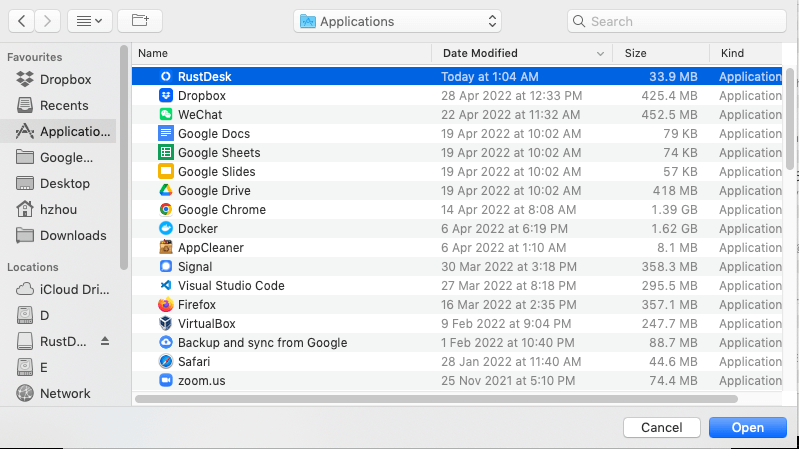
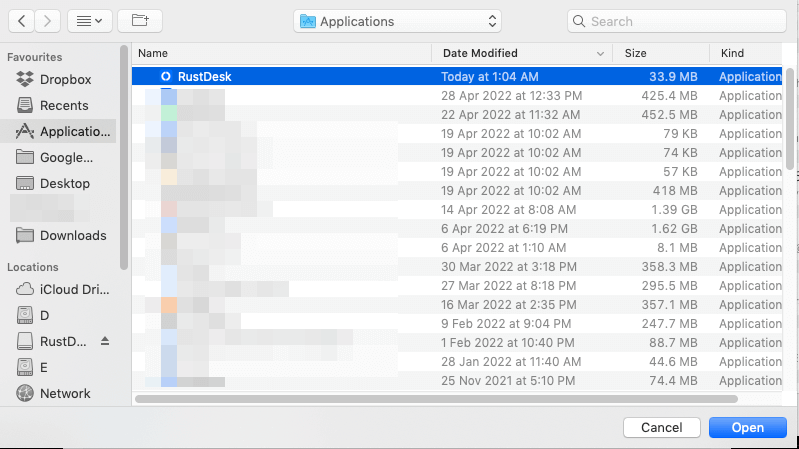
pixel

Changed region(s): [[0.1802, 0.1871, 0.4506, 0.8731], [0.03, 0.4365, 0.0901, 0.4989]]

diff --git a/content/manual/mac/_index.en.md b/content/manual/mac/_index.en.md
@@ -26,14 +26,14 @@ To capture screen, you need to grant `RustDesk` **accessibility** permission and
 
 | RustDesk Windows | Settings Window |
 | ---- | ---- |
-|![](/docs/en/manual/mac/images/acc.png)|![](/docs/en/manual/mac/images/acc3.png)|
+|![](/docs/en/manual/mac/images/acc.png)|![](/docs/en/manual/mac/images/acc3.png?v2)|
 
 If you have enabled it in the settings window, but RustDesk still warns. Please Remove RustDesk from the settings windows by the `-` button, and click on `+` button, select RustDesk in `/Applications`.
 
 | `-` and `+` button | Select RustDesk |
 | ---- | ---- |
-|![](/docs/en/manual/mac/images/acc2.png)|![](/docs/en/manual/mac/images/add.png)|
+|![](/docs/en/manual/mac/images/acc2.png)|![](/docs/en/manual/mac/images/add.png?v2)|
 
 Please copy above steps for **screen recording** permission.
 
-![](/docs/en/manual/mac/images/screen.png)
+![](/docs/en/manual/mac/images/screen.png?v2)
